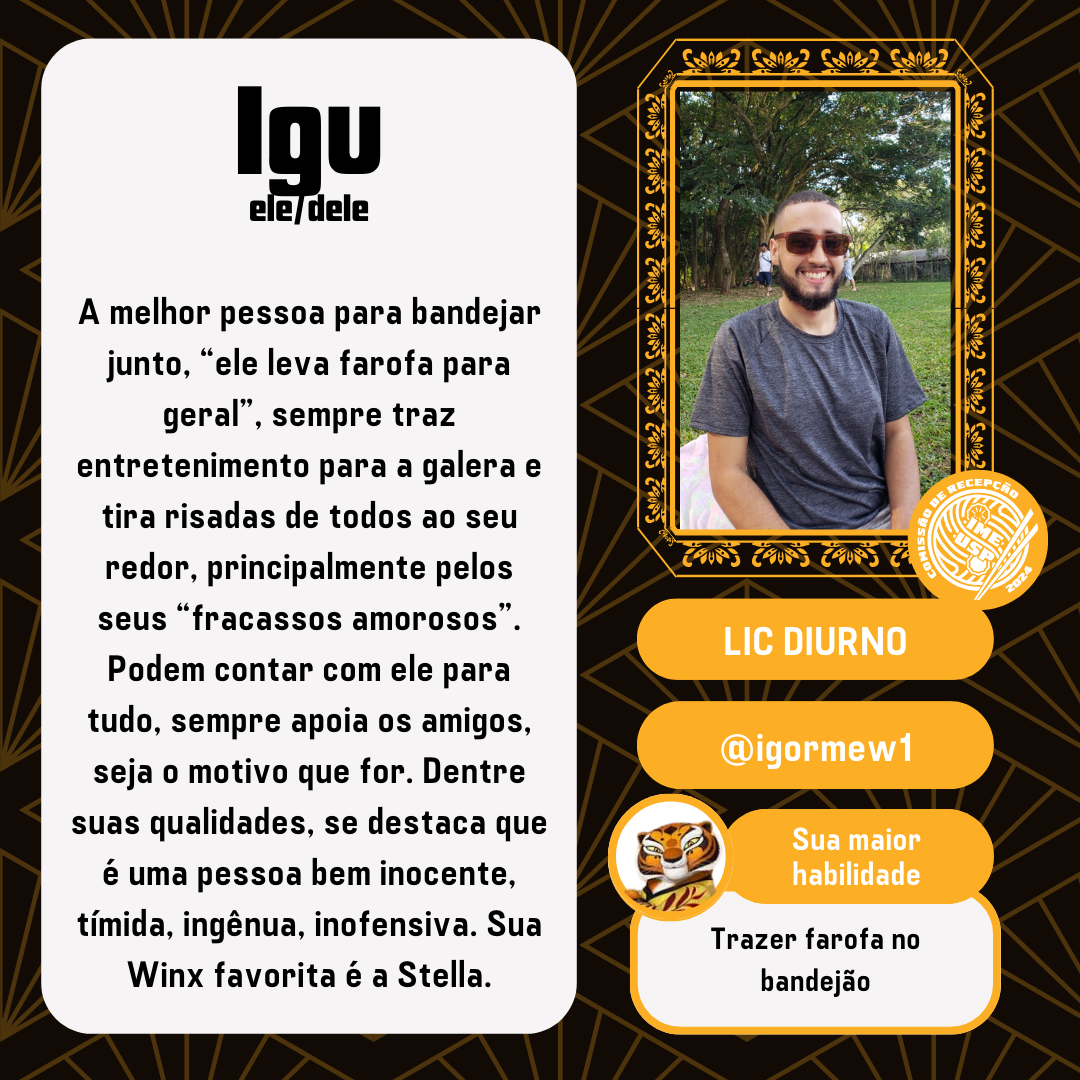
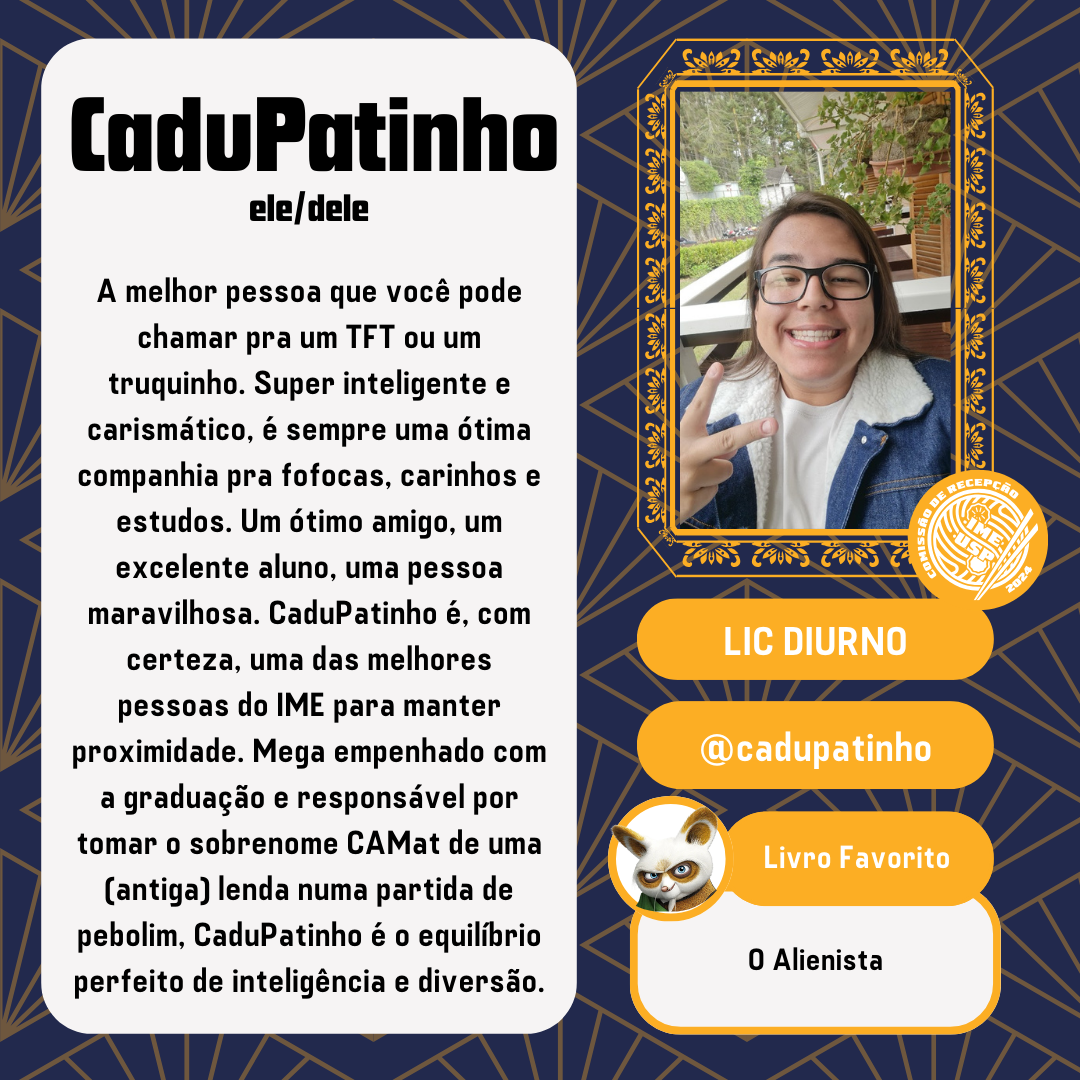
Adiciona 18 fotos da comissão e redefine 'numero=45' em comissao.vue

diff --git a/pages/comissao.vue b/pages/comissao.vue
@@ -70,7 +70,7 @@
           <h2 class="titulo txtWhite">Conheça a Comissão!</h2>
           <v-row justify="center">
             <v-col cols="12">
-              <PolaroidCarousel :ano="2024" :numero="27" />
+              <PolaroidCarousel :ano="2024" :numero="45" />
             </v-col>
           </v-row>
         </v-container>
